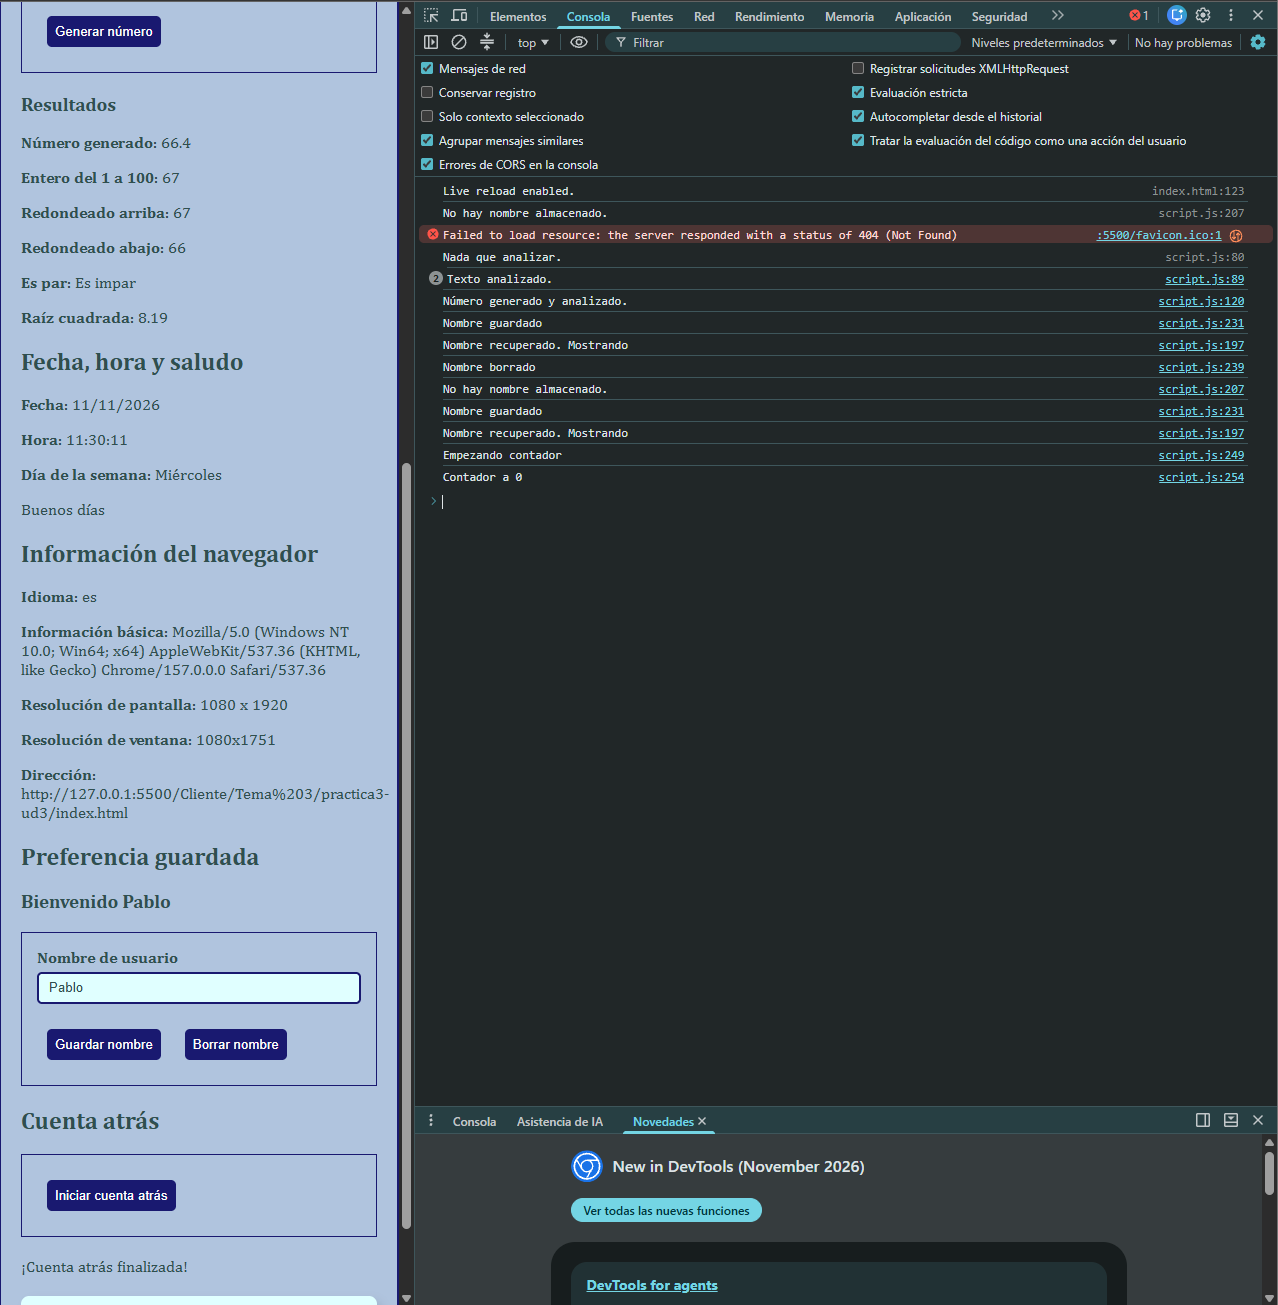
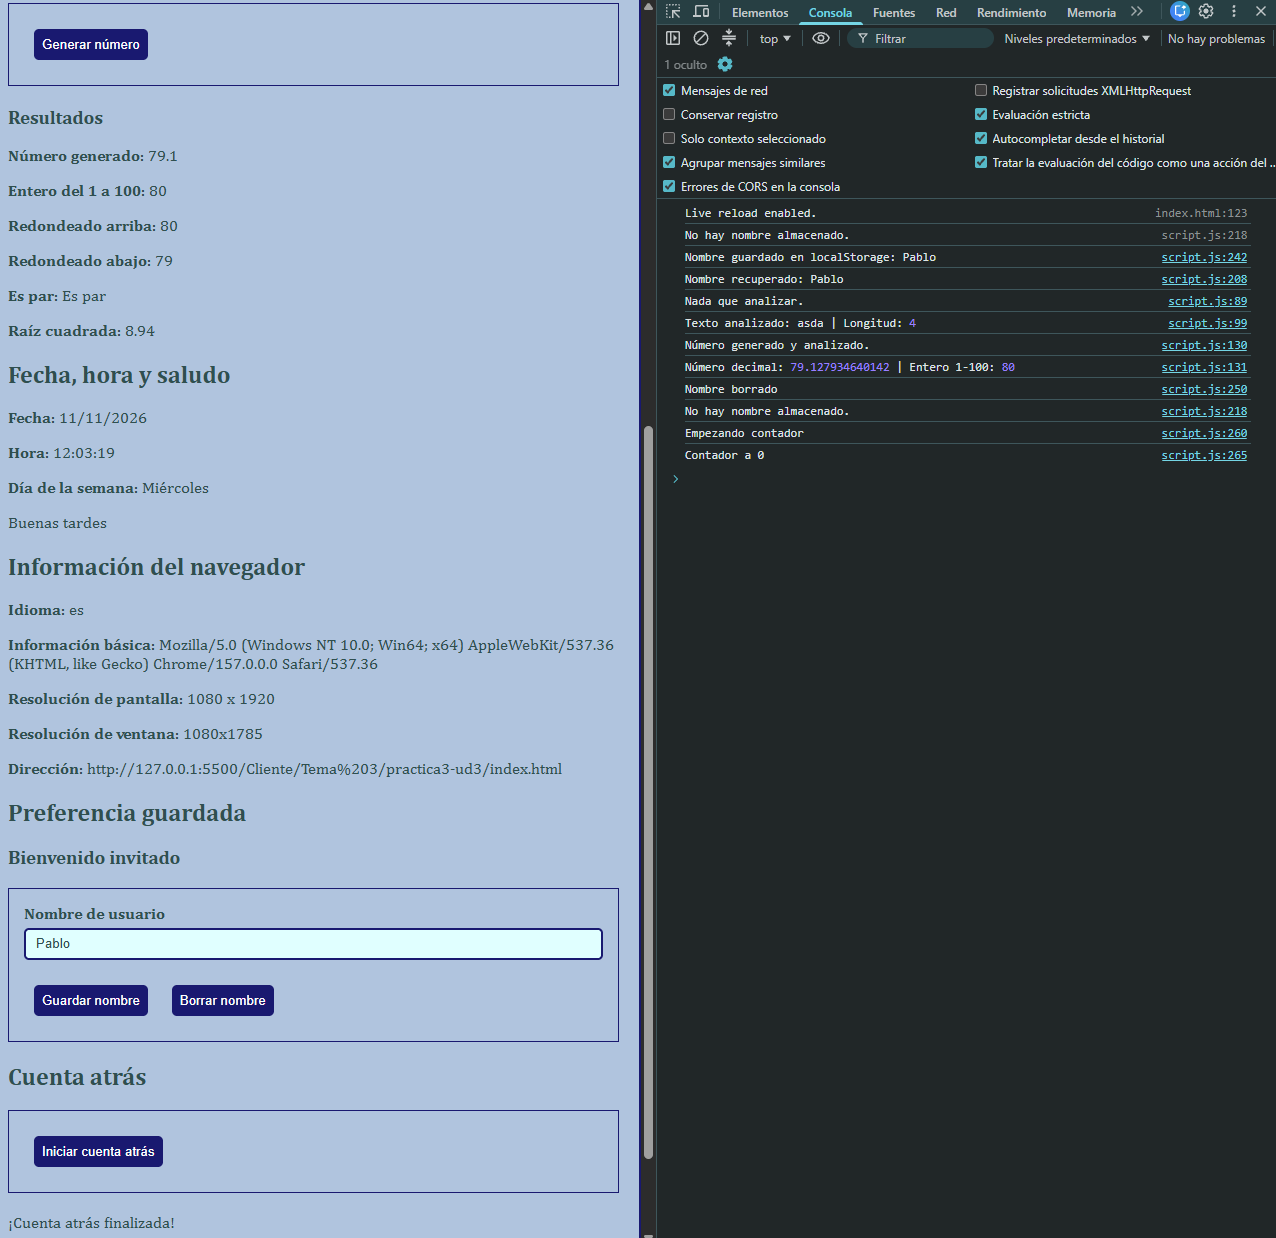
Añadido mejor documentación del ejercicio de UD3

diff --git a/Cliente/Tema 3/practica3-ud3/js/script.js b/Cliente/Tema 3/practica3-ud3/js/script.js
@@ -96,7 +96,7 @@ function analyzeText() {
 		fieldLowercase.textContent = clean.toLowerCase();
 		fieldFirst.textContent = clean.charAt(0);
 		fieldLast.textContent = clean.charAt(length - 1);
-		console.log("Texto analizado.");
+		console.log("Texto analizado:", clean, "| Longitud:", length);
 	}
 }
 
@@ -128,6 +128,7 @@ function generateRandom() {
 	fieldCeil.textContent = Math.ceil(num);
 	fieldFloor.textContent = Math.floor(num);
 	console.log("Número generado y analizado.")
+	console.log("Número decimal:", num, "| Entero 1-100:", integer);
 }
 
 /**
@@ -204,7 +205,7 @@ function showStoredName() {
 	if (storedName) {
 		// Si existe elemento DOM mostrar nombre
 		if (storedExit) {
-			console.log("Nombre recuperado. Mostrando");
+			console.log("Nombre recuperado:", storedName);
 			storedExit.textContent = "Bienvenido " + storedName;
 		} else {
 			handleError("Error: No se han encontrado todos los elementos necesarios en la página.");
@@ -238,7 +239,7 @@ function saveName() {
 
 	// Procesar
 	localStorage.setItem("userName", nameInput.value);
-	console.log("Nombre guardado");
+	console.log("Nombre guardado en localStorage:", nameInput.value);
 }
 
 /**

diff --git a/Cliente/Tema 3/practica3-ud3/readme.md b/Cliente/Tema 3/practica3-ud3/readme.md
@@ -1,0 +1,50 @@
+# Práctica 3 (UD3) - Panel Inteligente del Navegador
+
+**Asignatura:** Desarrollo Web en Entorno Cliente  
+**Curso:** 2º DAW  
+**Autor:** Pablo Illescas Ruiz  
+
+---
+
+## 📝 Descripción del Proyecto
+
+Esta aplicación web consiste en un **Panel Inteligente** modular que demuestra el uso interactivo de los objetos nativos y predefinidos de JavaScript en el entorno del navegador. 
+
+La práctica se divide en 6 utilidades funcionales:
+1. **Analizador de texto:** Procesamiento y manipulación de cadenas mediante el objeto `String`.
+2. **Generador de números aleatorios:** Operaciones matemáticas, redondeos y comprobaciones numéricas con el objeto `Math`.
+3. **Fecha, hora y saludo:** Manipulación de fechas, horas locales y saludos dinámicos según el momento del día con el objeto `Date`.
+4. **Información del navegador:** Extracción e inspección de datos del sistema y la ventana usando los objetos `navigator`, `screen`, `location` y `window`.
+5. **Preferencia guardada:** Gestión de la persistencia de datos en el cliente mediante la API de `localStorage`.
+6. **Cuenta atrás:** Control de temporizadores asíncronos y refresco dinamizado con `setInterval` y `clearInterval`.
+
+---
+
+## 📸 Evidencias y Capturas de Pantalla
+
+En la raíz del proyecto se incluyen las capturas exigidas que certifican el correcto funcionamiento, control de errores y depuración del código:
+
+* **`captura-console.png`**: Demuestra la ejecución limpia de la aplicación con la consola de DevTools de Google Chrome abierta en tiempo de ejecución.
+* **`captura-storage.png`**: Muestra la pestaña *Aplicación / Local Storage* de las herramientas de desarrollador, demonstrando el correcto almacenamiento y persistencia del parámetro `userName`.
+* **`captura-storage-vacio.png`**: Muestra el comportamiento defensivo de la aplicación y el estado del almacenamiento local cuando la clave `userName` ha sido eliminada mediante `localStorage.removeItem()`.
+* **`captura-breakpoint.png`**: Evidencia la pausa en la ejecución del código mediante un punto de interrupción (*breakpoint*) en el panel *Fuentes (Sources)*, inspeccionando los valores del ámbito local y la pila de llamadas (*Call Stack*).
+* **`captura-error-dom.png`**: Muestra el control de errores, combina una alerta emergente (`alert()`) y un registro explícito en la consola (`console.error()`) ante la ausencia o fallo en la carga de elementos del DOM.
+
+---
+
+## 🛠 Estructura del Proyecto
+
+```text
+practica3-ud3/
+├── css/
+│   └── style.css
+├── js/
+│   └── script.js
+├── captura-breakpoint.png
+├── captura-console.png
+├── captura-error-dom.png
+├── captura-storage.png
+├── captura-storage-vacio.png
+├── index.html
+└── README.md
+```
